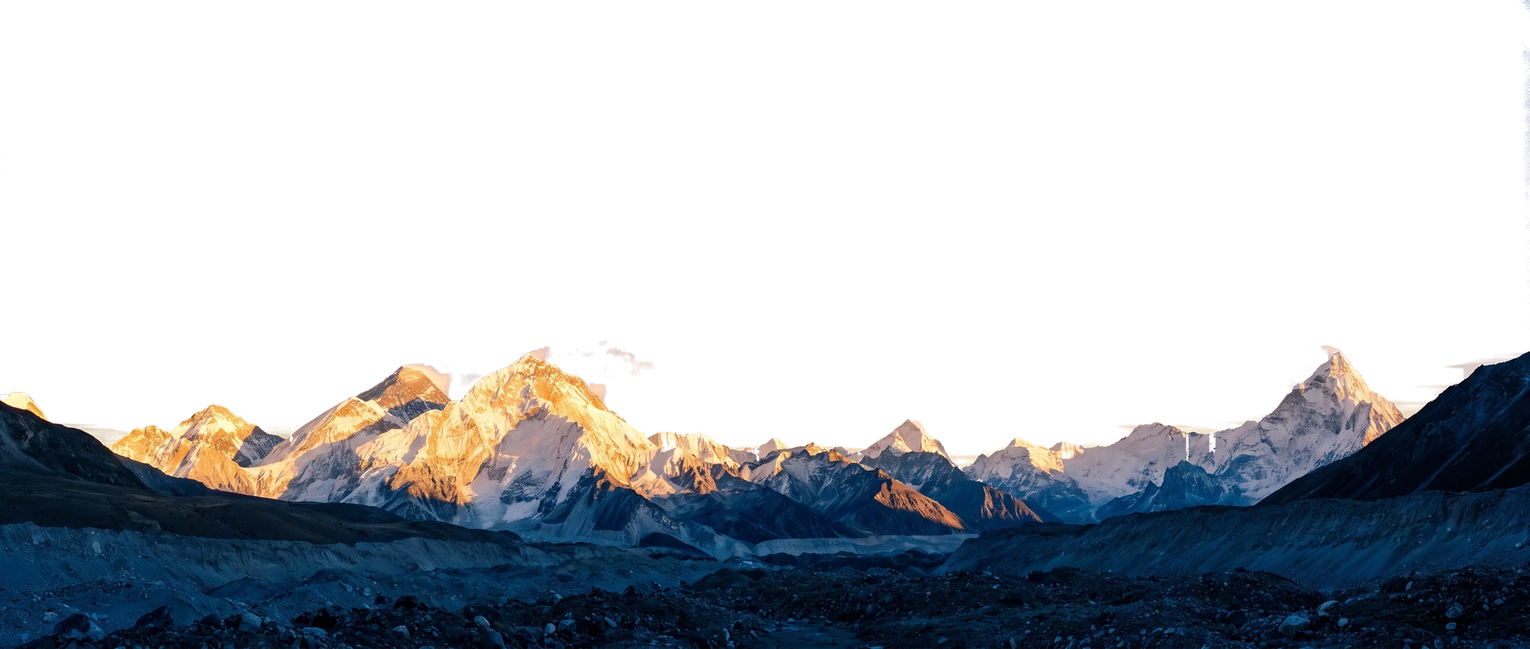
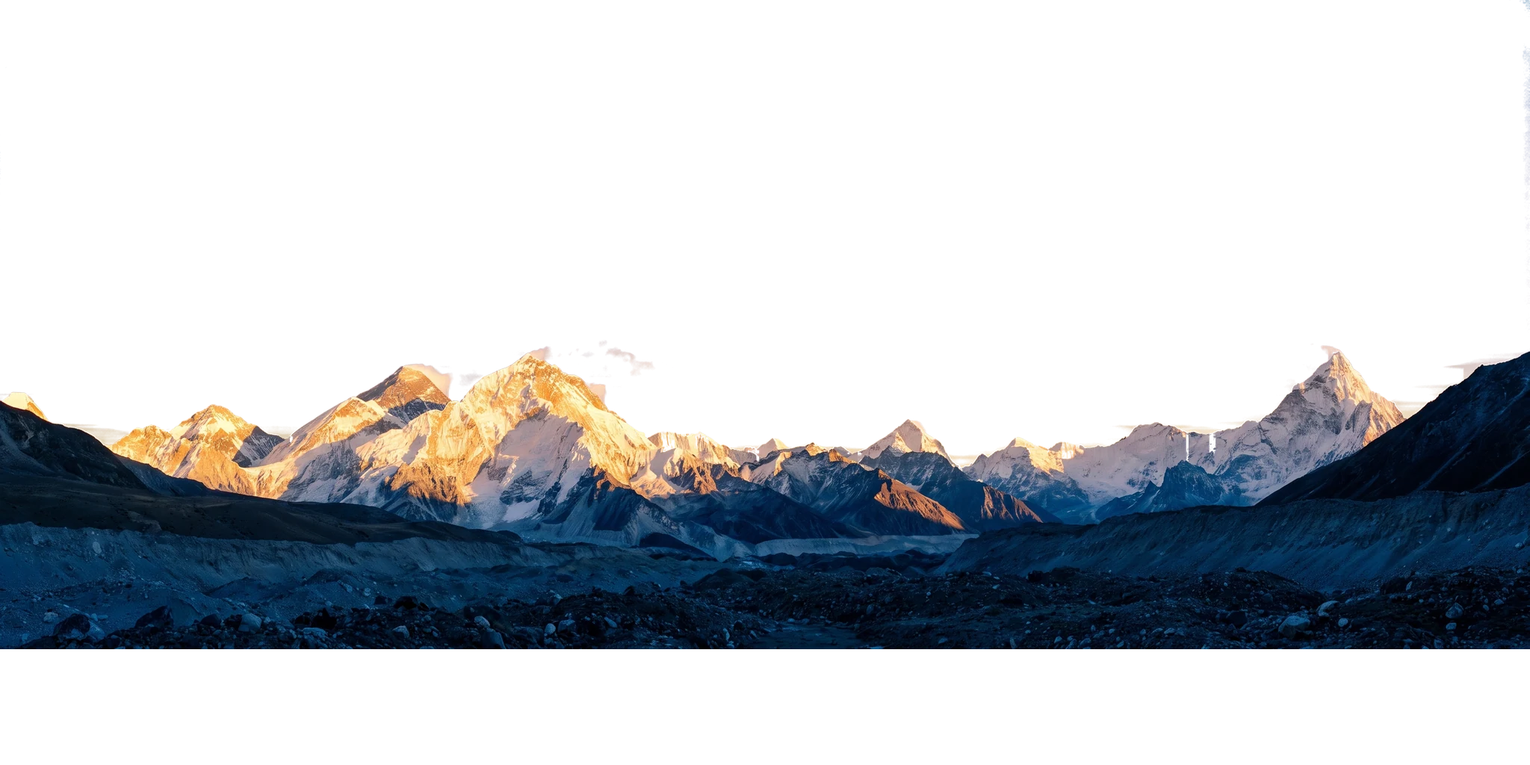
Sidereal round 2: motion that registers, instruments that agree, contrast floors
The render loop had died on its first frame (a const used before its
declaration in the new cloud-shadow pass) and the heartbeat was masking it —
the world was frozen. Fixed, guarded, and QA now asserts the engine clock
advances. Also from the round-2 critics: spindrift as soft puffs off the
summits, cloud strips and a sweeping cloud shadow that actually move,
POT-padded mipmapped plate, chapter slates derived from phaseOf(), the
address as the contact's solid slate, tel: link, hairline ghost rows
removed, 11px instrument floor with halos, solar-scale rail reserved,
?og=1 parsed properly, focus moves on anchor scrolls, one --head-offset
token, case-page moon on the ridge, time-card as one grid, 512px moon,
preloads, motion toggle honours the system setting.

diff --git a/src/scripts/sky.ts b/src/scripts/sky.ts
@@ -141,13 +141,13 @@ void main(){
 const FS_RANGE = `
 precision highp float;
 varying vec2 vUv;
-uniform sampler2D uTex; uniform vec4 uMap;
+uniform sampler2D uTex; uniform vec4 uMap; uniform vec2 uSub;
 uniform float uExposure, uSat, uHiMix, uLift, uContrast, uMoonLift;
 uniform vec3 uTint, uHiTint;
 void main(){
   vec2 uv = vUv * uMap.xy + uMap.zw;
   if (uv.x < 0.0 || uv.x > 1.0 || uv.y < 0.0 || uv.y > 1.0) { gl_FragColor = vec4(0.0); return; }
-  vec4 c = texture2D(uTex, vec2(uv.x, 1.0 - uv.y));
+  vec4 c = texture2D(uTex, vec2(uv.x * uSub.x, (1.0 - uv.y) * uSub.y));   // plate = top-left uSub of a POT texture; row 0 is its top
   float L = dot(c.rgb, vec3(0.299,0.587,0.114));
   vec3 g = mix(vec3(L), c.rgb, uSat);
   float hi = smoothstep(0.48, 0.95, L);
@@ -187,6 +187,15 @@ void main(){
   gl_FragColor = vec4(uTint*a, a);
 }`;
 
+const FS_SHADOW = `
+precision mediump float;
+varying vec2 vUv;
+uniform vec2 uC; uniform vec2 uR; uniform float uA;
+void main(){
+  vec2 d = (vUv - uC) / uR; float f = exp(-dot(d,d)*1.6);
+  gl_FragColor = vec4(0.0, 0.0, 0.0, f * uA);
+}`;
+
 const VS_LINES = `
 attribute vec3 aDir;
 uniform mat3 uEqToHor, uHorToCam; uniform vec2 uTan; varying float vA;
@@ -206,7 +215,7 @@ uniform float uDpr; varying float vA;
 void main(){ gl_Position = vec4(aPos, 0.0, 1.0); gl_PointSize = aSize*uDpr; vA = aAlpha; }`;
 const FS_PTS = `
 precision mediump float; varying float vA; uniform vec3 uCol;
-void main(){ vec2 p = gl_PointCoord*2.0-1.0; float a = exp(-dot(p,p)*3.0)*vA; if (a < 0.004) discard; gl_FragColor = vec4(uCol*a, a); }`;
+void main(){ vec2 p = gl_PointCoord*2.0-1.0; float a = exp(-dot(p,p)*2.2)*vA; if (a < 0.003) discard; gl_FragColor = vec4(uCol*a, a); }`;
 
 // ── gl helpers ────────────────────────────────────────────────────────────
 function compile(gl: WebGLRenderingContext, vs: string, fs: string) {
@@ -268,6 +277,7 @@ export function initSidereal(opts: Opts) {
   const pFog = compile(gl, VS_QUAD, FS_FOG);
   const pPts = compile(gl, VS_PTS, FS_PTS);
   const pLines = compile(gl, VS_LINES, FS_LINES);
+  const pShadow = compile(gl, VS_QUAD, FS_SHADOW);
   // locations are immutable after link — look each up once
   const uCache = new Map<WebGLProgram, Record<string, WebGLUniformLocation | null>>();
   const aCache = new Map<WebGLProgram, Record<string, number>>();
@@ -307,14 +317,15 @@ export function initSidereal(opts: Opts) {
   let texMW: WebGLTexture | null = null, texRange: WebGLTexture | null = null, texMoon: WebGLTexture | null = null, texFogA: WebGLTexture | null = null, texFogB: WebGLTexture | null = null;
   let redraw: () => void = () => {};   // set once the loop exists; assets call it when they land
   let rangeW = 3168, rangeH = 1344; let skyline: number[] = []; let peaks: number[] = [];
+  let sub: [number, number] = [1, 1];   // plate / texture size (POT padding)
   loadTex(gl, '/sidereal/milkyway.webp', { repeat: true, lum: true }).then((t) => { texMW = t; redraw(); }).catch(() => {});
   const small = window.innerWidth < 900 || (navigator as any).deviceMemory < 4;
-  loadTex(gl, small ? '/sidereal/range-2k.webp' : '/sidereal/range.webp', { alpha: true, mip: false }).then((t) => { texRange = t; root.classList.add('range-ready'); redraw(); }).catch(() => {});
+  loadTex(gl, small ? '/sidereal/range-2k.webp' : '/sidereal/range.webp', { alpha: true }).then((t) => { texRange = t; root.classList.add('range-ready'); redraw(); }).catch(() => {});
   loadTex(gl, '/sidereal/moon.webp', { alpha: true }).then((t) => { texMoon = t; redraw(); }).catch(() => {});
   loadTex(gl, '/photos/fog-plate-a.webp', { repeat: true, lum: true, mip: false }).then((t) => { texFogA = t; redraw(); }).catch(() => {});
   loadTex(gl, '/photos/fog-plate-b.webp', { repeat: true, lum: true, mip: false }).then((t) => { texFogB = t; redraw(); }).catch(() => {});
   fetch('/sidereal/range.json').then((r) => r.json()).then((j) => {
-    rangeW = j.w; rangeH = j.h; skyline = j.skyline;
+    rangeW = j.w; rangeH = j.h; skyline = j.skyline; if (j.sub) sub = j.sub;
     // spindrift emitters: local maxima of the skyline (smallest y), spaced
     const cand: number[] = [];
     for (let i = 2; i < skyline.length - 2; i++) if (skyline[i] < skyline[i - 1] && skyline[i] <= skyline[i + 1] && skyline[i] < skyline[i - 2] && skyline[i] <= skyline[i + 2]) cand.push(i);
@@ -323,7 +334,7 @@ export function initSidereal(opts: Opts) {
   }).catch(() => {});
 
   // ── state ──
-  const dbg = { fog: 1, drift: 1 };   // live tuning hooks (window.__sidereal.dbg)
+  const dbg = { fog: 1, drift: 1, shadow: 1 };   // live tuning hooks (window.__sidereal.dbg)
   let W = 1, H = 1, dpr = 1, aspect = 1, tanX = 1, tanY = 1;
   let sunAlt = 6, sunTarget = 6;          // degrees
   let moonUp = 0;                         // 0..1 rise progress
@@ -378,10 +389,10 @@ export function initSidereal(opts: Opts) {
       lastHudAlt = r;
       const s = `${r > 0 ? '+' : r < 0 ? '−' : ''}${Math.abs(r).toFixed(1)}°`;
       if (hudSun) hudSun.textContent = s;
-      if (hudClock) hudClock.textContent = clockOf(alt);
+      if (hudClock) hudClock.textContent = clockOf(r);
       if (marker) marker.style.transform = `translate3d(0, ${((SCALE_TOP - clamp(alt, SCALE_BOT, SCALE_TOP)) / (SCALE_TOP - SCALE_BOT)) * 100}cqh, 0)`;
     }
-    const ph = phaseOf(alt);
+    const ph = phaseOf(r);      // from the rounded value: the chapter slates and the HUD must agree
     if (ph !== lastPhase) { lastPhase = ph; root.dataset.phase = ph; if (hudPhase) hudPhase.textContent = PHASE_LABEL[ph]; }
   }
 
@@ -436,7 +447,7 @@ export function initSidereal(opts: Opts) {
   }
 
   // ── particles: spindrift, satellite, meteor ──
-  const NP = 150;
+  const NP = 260;
   const parts = Array.from({ length: NP }, () => ({ x: 0, y: 0, vx: 0, vy: 0, life: 0, max: 1, size: 1, a: 0 }));
   const ptData = new Float32Array(NP * 4);
   const ptBuf = gl.createBuffer()!;
@@ -460,7 +471,7 @@ export function initSidereal(opts: Opts) {
   function emit(dt: number, strength: number, wind: number) {
     if (!peaks.length || strength <= 0.01) return;
     const m = rangeMap();
-    let n = Math.round(strength * dt * 55);
+    let n = Math.round(strength * dt * 45);
     for (const p of parts) {
       if (n <= 0) break;
       if (p.life > 0) continue;
@@ -468,8 +479,9 @@ export function initSidereal(opts: Opts) {
       const u = col / skyline.length, v = 1 - skyline[col] / rangeH;
       p.x = (u - m.ox) / m.sx * 2 - 1; p.y = (v - m.oy) / m.sy * 2 - 1;
       p.x += (Math.random() - 0.4) * 0.02; p.y += Math.random() * 0.006;
-      p.vx = (0.03 + Math.random() * 0.05) * wind; p.vy = 0.012 + Math.random() * 0.02;
-      p.max = 1.6 + Math.random() * 2.2; p.life = p.max; p.size = 1.2 + Math.random() * 1.6; p.a = (0.12 + Math.random() * 0.2) * strength;
+      // plumes: soft puffs, downwind and slightly up, then settling — blowing snow, not sparks
+      p.vx = (0.03 + Math.random() * 0.06) * wind; p.vy = 0.005 + Math.random() * 0.012;
+      p.max = 1.8 + Math.random() * 2.4; p.life = p.max; p.size = 3 + Math.random() * 5; p.a = (0.035 + Math.random() * 0.06) * strength;
       n--;
     }
   }
@@ -478,7 +490,7 @@ export function initSidereal(opts: Opts) {
     for (const p of parts) {
       if (p.life <= 0) continue;
       p.life -= dt; const u = 1 - p.life / p.max;
-      p.vy -= 0.02 * dt; p.vx += (Math.sin(idleSec * 2.1 + p.x * 9) * 0.01) * dt;
+      p.vy -= 0.008 * dt; p.vx += (Math.sin(idleSec * 2.1 + p.x * 9) * 0.012) * dt; p.size += 1.6 * dt;   // puffs spread a little as they drift
       p.x += (p.vx + wind * 0.008) * dt; p.y += p.vy * dt;
       const fade = Math.sin(u * Math.PI);
       ptData[k++] = p.x; ptData[k++] = p.y; ptData[k++] = p.size; ptData[k++] = p.a * fade;
@@ -494,7 +506,7 @@ export function initSidereal(opts: Opts) {
     const [r0, r1, rt] = keyAt(RANGE, alt);
     const night = smooth(-12, -18, alt);
     // narrow screens: the moon clears the contact block by rising higher
-    const moonAlt = (isClock ? lerp(-6.8, 11, smooth(0, 1, moonUp)) : 13) + idleSec * 0.004 + (aspect < 0.8 ? 6 * smooth(0, 1, moonUp) : 0);
+    const moonAlt = (isClock ? lerp(-6.8, 11, smooth(0, 1, moonUp)) : 1.5) + idleSec * 0.004 + (aspect < 0.8 ? 6 * smooth(0, 1, moonUp) : 0);
     const moonVis = (moonAlt > -6.6 ? 1 : 0) * smooth(-14, -17, alt);
     const moonLight = moonVis * clamp(moonAlt / 10, 0, 1);
     // sidereal time: each degree of sun altitude ≈ 4.6 min ≈ 1.15° of sky; idle at 1×
@@ -563,7 +575,7 @@ export function initSidereal(opts: Opts) {
       const u = col / skyline.length, v = 1 - skyline[col] / rangeH;
       const px = (u - m.ox) / m.sx, py = (v - m.oy) / m.sy - (isClock ? scrollT * 0.03 : 0);   // 0..1 viewport, parallax included
       const rx = moonR, ry = moonR * aspect;
-      const cx = isClock ? (aspect < 0.8 ? 0.72 : clamp(px + rx * 0.15, 0.2, 0.8)) : 0.92, cy = py - ry * 0.75 + (moonAlt + 3) / 13 * ry * 4.2;
+      const cx = isClock ? (aspect < 0.8 ? 0.72 : clamp(px + rx * 0.15, 0.2, 0.8)) : (aspect < 0.8 ? 0.72 : 0.9), cy = py - ry * 0.75 + (moonAlt + 3) / 13 * ry * 4.2;
       gl.blendFunc(gl.ONE, gl.ONE_MINUS_SRC_ALPHA);
       gl.useProgram(pSprite); bindUnit(pSprite);
       gl.activeTexture(gl.TEXTURE0); gl.bindTexture(gl.TEXTURE_2D, texMoon); gl.uniform1i(U(pSprite, 'uTex'), 0);
@@ -585,6 +597,7 @@ export function initSidereal(opts: Opts) {
       gl.activeTexture(gl.TEXTURE0); gl.bindTexture(gl.TEXTURE_2D, texRange); gl.uniform1i(U(pRange, 'uTex'), 0);
       // parallax: the range settles very slightly as the evening passes
       gl.uniform4f(U(pRange, 'uMap'), m.sx, m.sy, m.ox, m.oy + scrollT * 0.03 * (isClock ? 1 : 0));
+      gl.uniform2f(U(pRange, 'uSub'), sub[0], sub[1]);
       const t3 = (n: string, a: V3, b: V3) => { const v = mix3(a, b, rt); gl.uniform3f(U(pRange, n), v[0], v[1], v[2]); };
       gl.uniform1f(U(pRange, 'uExposure'), lerp(r0.exposure, r1.exposure, rt));
       gl.uniform1f(U(pRange, 'uSat'), lerp(r0.sat, r1.sat, rt));
@@ -596,8 +609,21 @@ export function initSidereal(opts: Opts) {
       gl.drawArrays(gl.TRIANGLES, 0, 3);
     }
 
+    const bandBase = 1 / rangeMap().sy;             // plate height in viewport units
+    // a cloud's shadow crossing the range — only while there is sun to cast it
+    const shadowA = 0.34 * smooth(-2.5, 3, alt) * (motionOff() ? 0 : 1) * dbg.shadow;
+    if (shadowA > 0.005) {
+      gl.blendFunc(gl.ZERO, gl.ONE_MINUS_SRC_ALPHA);      // dst *= (1 − a): a shadow, not a fog
+      gl.useProgram(pShadow); bindQuad(pShadow);
+      const cxs = -0.3 + (((idleSec + 70) / 150) % 1) * 1.6;  // crosses left→right in ~2.5 minutes; in frame from the start
+      gl.uniform2f(U(pShadow, 'uC'), cxs, bandBase * 0.42);
+      gl.uniform2f(U(pShadow, 'uR'), 0.26, 0.16 * (W / H) * 0.6);
+      gl.uniform1f(U(pShadow, 'uA'), shadowA);
+      gl.drawArrays(gl.TRIANGLES, 0, 3);
+    }
+
     // cloud strips — drift at prime periods; more present in twilight
-    const fogK = (0.16 + 0.26 * smooth(6, -4, alt) * (1 - smooth(-9, -16, alt)) + 0.08 * night) * (motionOff() ? 0.7 : 1) * dbg.fog;
+    const fogK = (0.26 + 0.30 * smooth(6, -4, alt) * (1 - smooth(-9, -16, alt)) + 0.10 * night) * (motionOff() ? 0.7 : 1) * dbg.fog;
     const hz = mix3(s0.horizon, s1.horizon, st);
     const fogTint: V3 = [lerp(hz[0], 1, 0.35), lerp(hz[1], 1, 0.35), lerp(hz[2], 1, 0.35)];
     const drawFog = (tex: WebGLTexture | null, off: number, a: number, y0: number, y1: number, rep: number) => {
@@ -609,9 +635,8 @@ export function initSidereal(opts: Opts) {
       gl.drawArrays(gl.TRIANGLES, 0, 3);
     };
     gl.blendFunc(gl.ONE, gl.ONE_MINUS_SRC_ALPHA);
-    const bandBase = 1 / rangeMap().sy;             // plate height in viewport units
-    drawFog(texFogA, idleSec / 223, fogK, bandBase * 0.40, bandBase * 0.86, 1.6);
-    drawFog(texFogB, -idleSec / 347, fogK * 0.8, bandBase * 0.52, bandBase * 0.98, 1.1);
+    drawFog(texFogA, idleSec / 64, fogK, bandBase * 0.40, bandBase * 0.86, 1.6);
+    drawFog(texFogB, -idleSec / 101, fogK * 0.8, bandBase * 0.52, bandBase * 0.98, 1.1);
 
     // spindrift + satellite + meteor
     if (!motionOff()) {
@@ -621,7 +646,7 @@ export function initSidereal(opts: Opts) {
       // satellite: a slow point crossing the dark sky
       nextSat -= dt;
       if (!sat.on && nextSat < 0 && alt < -9) { sat = { on: true, x: -1.05, y: 0.2 + Math.random() * 0.6, vx: 0.05 + Math.random() * 0.03, vy: (Math.random() - 0.5) * 0.02, t: 0 }; nextSat = 70 + Math.random() * 90; }
-      if (sat.on) { sat.x += sat.vx * dt; sat.y += sat.vy * dt; if (sat.x > 1.05) sat.on = false; else { ptData[n * 4] = sat.x; ptData[n * 4 + 1] = sat.y; ptData[n * 4 + 2] = 2.2; ptData[n * 4 + 3] = 0.75 * night; n++; } }
+      if (sat.on) { sat.x += sat.vx * dt; sat.y += sat.vy * dt; if (sat.x > 1.05) sat.on = false; else if (n < NP) { ptData[n * 4] = sat.x; ptData[n * 4 + 1] = sat.y; ptData[n * 4 + 2] = 2.2; ptData[n * 4 + 3] = 0.75 * night; n++; } }
       nextMeteor -= dt;
       if (!meteor.on && nextMeteor < 0 && alt < -14) { meteor = { on: true, x: -0.6 + Math.random() * 1.2, y: 0.3 + Math.random() * 0.6, dx: 0.9 + Math.random() * 0.6, dy: -(0.5 + Math.random() * 0.4), t: 0 }; nextMeteor = 60 + Math.random() * 120; }
       if (meteor.on) {
@@ -648,14 +673,14 @@ export function initSidereal(opts: Opts) {
   }
 
   // ── loop ──
-  let rafId = 0, lastNow = performance.now(), lastFrameTs = 0, scrollDirty = true;
+  let rafId = 0, lastNow = performance.now(), lastFrameTs = 0, scrollDirty = true, drawFailed = false;
   function frame(now: number) {
     lastFrameTs = now;
-    const dt = Math.min(0.05, (now - lastNow) / 1000); lastNow = now;
+    const dt = clamp((now - lastNow) / 1000, 0, 0.05); lastNow = now;
     if (!motionOff()) idleSec += dt;
     if (scrollDirty) { readScroll(); scrollDirty = false; }
     sunAlt = motionOff() ? sunTarget : lerp(sunAlt, sunTarget, 1 - Math.pow(0.001, dt)); // ~settles in 1s
-    draw(now, dt);
+    try { draw(now, dt); } catch (e) { if (!drawFailed) { drawFailed = true; console.error('[sidereal] draw failed', e); } }
     // reduced motion: the world is a still — draw it once per change, then sleep
     if (motionOff() && Math.abs(sunAlt - sunTarget) < 0.01) { rafId = 0; return; }
     rafId = requestAnimationFrame(frame);
@@ -701,7 +726,10 @@ export function initSidereal(opts: Opts) {
     const el = id ? document.getElementById(id) : document.body;
     if (!el) return;
     e.preventDefault(); history.pushState(null, '', `#${id}`);
-    scrollToY(id === 'top' || id === '' ? 0 : el.getBoundingClientRect().top + window.scrollY - 72);
+    const headOffset = parseFloat(getComputedStyle(root).getPropertyValue('--head-offset')) || 110;
+    scrollToY(id === 'top' || id === '' ? 0 : el.getBoundingClientRect().top + window.scrollY - headOffset);
+    if (!el.hasAttribute('tabindex')) el.setAttribute('tabindex', '-1');
+    el.focus({ preventScroll: true });
   });
   window.addEventListener('wheel', () => cancelAnimationFrame(animScroll), { passive: true });
   window.addEventListener('touchstart', () => cancelAnimationFrame(animScroll), { passive: true });
@@ -736,5 +764,5 @@ export function initSidereal(opts: Opts) {
   window.addEventListener('load', () => { resize(); scrollDirty = true; });
   rafId = requestAnimationFrame(frame);
   // live tuning: window.__sidereal.sun = -12; window.__sidereal.dbg.fog = 3
-  (window as any).__sidereal = { get sun() { return sunAlt; }, set sun(v: number) { sunTarget = v; sunAlt = v; wake(); }, resize, dbg };
+  (window as any).__sidereal = { get sun() { return sunAlt; }, set sun(v: number) { sunTarget = v; sunAlt = v; wake(); }, get idle() { return idleSec; }, get raf() { return rafId; }, get lastFrame() { return lastFrameTs; }, resize, dbg };
 }

diff --git a/src/styles/sidereal/pages.css b/src/styles/sidereal/pages.css
@@ -1,29 +1,29 @@
 /* SIDEREAL — reading pages (work index, case studies, writing). Held at night. */
 .page { position: relative; padding: clamp(150px, 20vh, 220px) 0 clamp(96px, 14vh, 160px); }
-.page__head { display: grid; gap: 22px; max-width: 820px; margin-bottom: clamp(48px, 7vw, 88px); }
-.page__back { align-self: start; margin-bottom: 10px; color: var(--ink-2); }
+.page__head { display: grid; gap: 22px; max-width: 820px; margin-bottom: clamp(40px, 6vw, 72px); padding-bottom: 18px; border-bottom: 1px solid var(--rule); }
+.page__back { align-self: start; justify-self: start; margin-bottom: 10px; color: var(--ink-2); }
 .page__title { font-size: var(--text-title); line-height: 1.04; color: var(--ink); text-shadow: var(--ink-shadow); }
 .page__head .t-label::before { content: ''; display: inline-block; width: 28px; height: 1px; background: var(--rule-strong); vertical-align: middle; margin-right: 12px; }
 
 /* case study */
 .case__meta { display: flex; flex-wrap: wrap; gap: 8px 14px; color: var(--ink-3); }
 .case__meta .sep { color: var(--ink-4); }
-.case__metrics { display: grid; grid-template-columns: repeat(3, minmax(0, 1fr)); column-gap: clamp(24px, 3vw, 48px); row-gap: 28px; align-items: start; padding: 30px 0 34px; border-top: 1px solid var(--rule); border-bottom: 1px solid var(--rule); margin-bottom: clamp(36px, 5vw, 60px); }
+.case__metrics { display: grid; grid-template-columns: repeat(3, minmax(0, 1fr)); column-gap: clamp(24px, 3vw, 48px); row-gap: 28px; align-items: baseline; padding: 30px 0 34px; border-top: 1px solid var(--rule); border-bottom: 1px solid var(--rule); margin-bottom: clamp(36px, 5vw, 60px); }
 .case__metric { display: grid; gap: 10px; align-content: start; }
 .case__val { font-size: clamp(1.9rem, 3.2vw, 2.8rem); text-shadow: var(--ink-shadow); }
-.case__val--word { font-family: var(--font-serif); font-stretch: 100%; font-weight: 400; font-size: clamp(1.3rem, 1.9vw, 1.7rem); letter-spacing: 0; color: var(--ink); line-height: 1.15; }
+.case__val--word { font-family: var(--font-display); font-stretch: 100%; font-weight: 400; font-size: var(--text-ui); letter-spacing: 0; color: var(--ink-2); line-height: 1.5; text-shadow: none; }
 .case__val--lead { color: var(--alpenglow); }
-.case__cap { font-family: var(--font-mono); font-size: 0.72rem; letter-spacing: 0.1em; text-transform: uppercase; color: var(--ink-2); max-width: 24ch; line-height: 1.45; text-wrap: balance; }
+.case__cap { font-family: var(--font-mono); font-size: 0.72rem; letter-spacing: 0.1em; text-transform: uppercase; color: var(--ink-2); max-width: 32ch; line-height: 1.45; text-wrap: balance; }
 .case__tags { font-family: var(--font-mono); font-size: var(--text-label); letter-spacing: var(--track-label); text-transform: uppercase; color: var(--ink-3); margin-bottom: clamp(36px, 5vw, 56px); display: flex; flex-wrap: wrap; gap: 6px 0; }
 .case__tags .sep { color: var(--ink-4); margin: 0 10px; }
 .case__grid { display: grid; grid-template-columns: minmax(0, 8fr) minmax(0, 4fr); column-gap: clamp(40px, 6vw, 96px); align-items: start; }
 .case__grid > .prose { max-width: min(var(--measure), 100%); }
-.case__aside { position: sticky; top: 130px; display: grid; gap: 26px; padding-top: 6px; }
+.case__aside { position: sticky; top: calc(var(--head-offset, 118px) + 12px); display: grid; gap: 26px; padding-top: 6px; }
 .toc { list-style: none; display: grid; gap: 2px; }
 .toc a { display: grid; grid-template-columns: 30px minmax(0, 1fr); column-gap: 10px; padding: 7px 0; font-family: var(--font-display); font-size: var(--text-small); color: var(--ink-2); border-top: 1px solid var(--rule); }
 .toc li:last-child a { border-bottom: 1px solid var(--rule); }
 .toc a:hover { color: var(--venus); }
-.toc__n { font-family: var(--font-mono); font-size: 0.66rem; letter-spacing: 0.1em; color: var(--ink-4); padding-top: 0.2em; }
+.toc__n { font-family: var(--font-mono); font-size: var(--text-label); letter-spacing: 0.1em; color: var(--ink-3); padding-top: 0.2em; }
 .case__aside .t-label { display: block; margin-bottom: 8px; }
 .case__aside p { font-family: var(--font-display); font-size: var(--text-small); line-height: 1.6; color: var(--ink-2); }
 .case__foot { margin-top: clamp(56px, 8vw, 96px); padding-top: 28px; border-top: 1px solid var(--rule); display: flex; justify-content: space-between; align-items: center; gap: 20px; flex-wrap: wrap; }
@@ -35,6 +35,7 @@
 /* writing */
 .wlist { list-style: none; display: grid; max-width: 820px; }
 .wlist__row { display: grid; grid-template-columns: minmax(0, 1fr) auto; gap: 10px 24px; padding: 24px 0; border-top: 1px solid var(--rule); transition: border-color var(--dur) var(--ease); }
+.wlist li:first-child .wlist__row { border-top: 0; }
 .wlist li:last-child .wlist__row { border-bottom: 1px solid var(--rule); }
 .wlist__row:hover { border-color: var(--rule-glow); }
 .wlist__title { font-family: var(--font-serif); font-size: clamp(1.2rem, 1.9vw, 1.6rem); line-height: 1.2; color: var(--ink); transition: color var(--dur) var(--ease); }

diff --git a/src/styles/sidereal/tokens.css b/src/styles/sidereal/tokens.css
@@ -8,8 +8,8 @@
         Switched per chapter by the engine (html[data-phase]); never animated. ── */
   --ink: #f3ede4;
   --ink-2: rgba(243, 237, 228, 0.78);
-  --ink-3: rgba(243, 237, 228, 0.62);
-  --ink-4: rgba(243, 237, 228, 0.46);
+  --ink-3: rgba(243, 237, 228, 0.70);
+  --ink-4: rgba(243, 237, 228, 0.56);
 
   /* ── The evening's own colours (sampled from the sky model) ── */
   --alpenglow: #ffb27a;   /* rose-gold on the summits at sunset */
@@ -63,12 +63,17 @@
 
   /* ── Legibility at golden hour: one tight shadow, nothing else ── */
   --ink-shadow: 0 1px 2px rgba(6, 8, 18, 0.45), 0 0 18px rgba(6, 8, 18, 0.25);
+  /* instruments over the lit range: a tight dark halo */
+  --instrument-shadow: 0 0 7px rgba(5, 7, 15, 0.92), 0 1px 2px rgba(5, 7, 15, 0.9);
+  --chapter-gap-mobile: clamp(96px, 12vh, 150px);
+  --head-offset: 118px;      /* anchors land below the title-safe band */
+  --accent-2: var(--alpenglow); /* legacy name used by the brand mark */
 }
 
 /* Phase-switched ink — cools as the evening goes on. Discrete steps only. */
-html[data-phase='golden']    { --ink-shadow: 0 1px 2px rgba(6, 8, 18, 0.7), 0 0 28px rgba(6, 8, 18, 0.55); --ink: #f6eee2; --ink-2: rgba(246, 238, 226, 0.78); --ink-3: rgba(246, 238, 226, 0.62); --ink-4: rgba(246, 238, 226, 0.46); }
-html[data-phase='sunset']    { --ink-shadow: 0 1px 2px rgba(6, 8, 18, 0.66), 0 0 26px rgba(6, 8, 18, 0.5); --ink: #f5eee6; --ink-2: rgba(245, 238, 230, 0.78); --ink-3: rgba(245, 238, 230, 0.62); --ink-4: rgba(245, 238, 230, 0.46); }
-html[data-phase='civil']     { --ink-shadow: 0 1px 2px rgba(6, 8, 18, 0.6), 0 0 22px rgba(6, 8, 18, 0.42); --ink: #f2eeea; --ink-2: rgba(242, 238, 234, 0.78); --ink-3: rgba(242, 238, 234, 0.62); --ink-4: rgba(242, 238, 234, 0.46); }
-html[data-phase='nautical']  { --ink: #eef0f6; --ink-2: rgba(238, 240, 246, 0.78); --ink-3: rgba(238, 240, 246, 0.62); --ink-4: rgba(238, 240, 246, 0.46); }
+html[data-phase='golden']    { --ink-shadow: 0 1px 2px rgba(6, 8, 18, 0.7), 0 0 28px rgba(6, 8, 18, 0.55); --ink: #f6eee2; --ink-2: rgba(246, 238, 226, 0.78); --ink-3: rgba(246, 238, 226, 0.70); --ink-4: rgba(246, 238, 226, 0.56); }
+html[data-phase='sunset']    { --ink-shadow: 0 1px 2px rgba(6, 8, 18, 0.66), 0 0 26px rgba(6, 8, 18, 0.5); --ink: #f5eee6; --ink-2: rgba(245, 238, 230, 0.78); --ink-3: rgba(245, 238, 230, 0.70); --ink-4: rgba(245, 238, 230, 0.56); }
+html[data-phase='civil']     { --ink-shadow: 0 1px 2px rgba(6, 8, 18, 0.6), 0 0 22px rgba(6, 8, 18, 0.42); --ink: #f2eeea; --ink-2: rgba(242, 238, 234, 0.78); --ink-3: rgba(242, 238, 234, 0.70); --ink-4: rgba(242, 238, 234, 0.56); }
+html[data-phase='nautical']  { --ink: #eef0f6; --ink-2: rgba(238, 240, 246, 0.78); --ink-3: rgba(238, 240, 246, 0.70); --ink-4: rgba(238, 240, 246, 0.56); }
 html[data-phase='astro'],
-html[data-phase='night']     { --ink: #eaf0fb; --ink-2: rgba(234, 240, 251, 0.78); --ink-3: rgba(234, 240, 251, 0.62); --ink-4: rgba(234, 240, 251, 0.46); }
+html[data-phase='night']     { --ink: #eaf0fb; --ink-2: rgba(234, 240, 251, 0.78); --ink-3: rgba(234, 240, 251, 0.70); --ink-4: rgba(234, 240, 251, 0.56); }

diff --git a/src/styles/sidereal/base.css b/src/styles/sidereal/base.css
@@ -7,7 +7,7 @@
 
 html {
   /* no `scroll-behavior: smooth` — the engine eases anchor scrolls itself */
-  scroll-padding-top: 96px;
+  scroll-padding-top: var(--head-offset, 118px);
   -webkit-text-size-adjust: 100%;
   background: var(--zenith);
 }
@@ -170,7 +170,7 @@ button { font: inherit; color: inherit; background: none; border: 0; cursor: poi
   display: flex;
   align-items: baseline;
   gap: 14px;
-  scroll-margin-top: 110px;
+  scroll-margin-top: var(--head-offset, 118px);
 }
 .prose h2::before { content: counter(chapter, decimal-leading-zero); counter-increment: chapter; font-size: 1.5em; font-weight: 300; color: var(--ink-4); }
 .prose { counter-reset: chapter; }

diff --git a/docs/sidereal-design-system.md b/docs/sidereal-design-system.md
@@ -37,7 +37,8 @@ the clock; a vertical *solar scale* on the right edge shows the sun sinking.
 | 06 | Writing | −18° | Night | Milky Way at full strength; constellation figures as 8% hairlines | Rows, narrowed to 960px |
 | 07 | Contact | −22° | Moonrise | The moon breaks the highest summit's ridge and climbs; the sky wheels at 1× while you read | One sentence, centred, the whole sky |
 
-Chapter slates: each header carries its own burn-in (`17:37 NPT · Sun −1° · Sunset`).
+Chapter slates: each header carries its own burn-in (`17:37 NPT · Sun −1° · Sunset`),
+derived from the same `phaseOf()` the HUD uses, so the instruments never disagree.
 The fixed time-card lives in the title-safe band under the wordmark (header, top-left);
 the solar scale sits on the right edge, with chapter labels only when there is room
 (≥ 1400px). Outgoing chapters fade to zero under the header band (opacity only).
@@ -69,12 +70,15 @@ A single fixed `<canvas>` (`src/scripts/sky.ts`) renders, back to front:
    its base on the way up — the Ridgemoon mark, realised in the world. On reading
    pages it hangs at 13° in the right margin and drifts at the real rate.
 5. **The range** — one real-looking plate of a Himalayan range at golden hour,
-   sky keyed out (`public/sidereal/range.webp`, RGBA). Relit *in the shader* by
+   sky keyed out (`public/sidereal/range.webp`, RGBA, padded to a power-of-two
+   canvas so it mipmaps; `range.json` carries the sub-rect and the skyline). Relit *in the shader* by
    the same sun altitude: warm highlight lift at golden hour, rose alpenglow at
    sunset, desaturated silver-blue at night, with the shadow side always cool.
-6. **Atmosphere** — two cloud/fog strips drifting at prime-number periods
-   (transform only), spindrift blowing off the skyline profile, an occasional
-   satellite crossing, a rare meteor after dark.
+6. **Atmosphere** — two cloud strips drifting at prime periods (a strip crosses in
+   about a minute), a cloud's shadow sweeping the range while there is sun to cast
+   it, spindrift puffs blowing off the summits of the skyline profile, an occasional
+   satellite crossing, a rare meteor after dark. Measured: 1.5–3.8% of pixels
+   change over any three seconds — slow, but alive.
 
 Performance contract: DPR ≤ 1.5, ~8 draw calls per frame (the moon is a small
 quad, masks upload as LUMINANCE_ALPHA, uniform locations are cached), zero DOM
@@ -119,7 +123,10 @@ per-frame). Contrast against the darkest sky region ≥ 7:1 for body text.
 - 12-column grid, max 1280px, gutter `clamp(20px, 5vw, 48px)`.
 - Text is **left-weighted** (columns 1–7). The right side is kept open — that is
   where the peaks stand and where the moon rises.
-- Reading measure 34em (≈ 72 characters of Newsreader; `ch` overstates a serif). Section spacing `clamp(140px, 22vh, 260px)` — each
+- Reading measure 34em (≈ 72 characters of Newsreader; `ch` overstates a serif).
+- The solar scale reserves its rail: content narrows to `100vw − 300px` from 1100px and
+  `100vw − 420px` from 1560px (where the chapter labels appear).
+- Contact carries the one primary action of the page: the address itself as a solid slate. Section spacing `clamp(140px, 22vh, 260px)` — each
   chapter must feel like time passing.
 - Manifest rows (case studies): `index · title · meta` left, `metrics` right,
   full-row link, hairline above; hover reveals a sweep and a right arrow.
